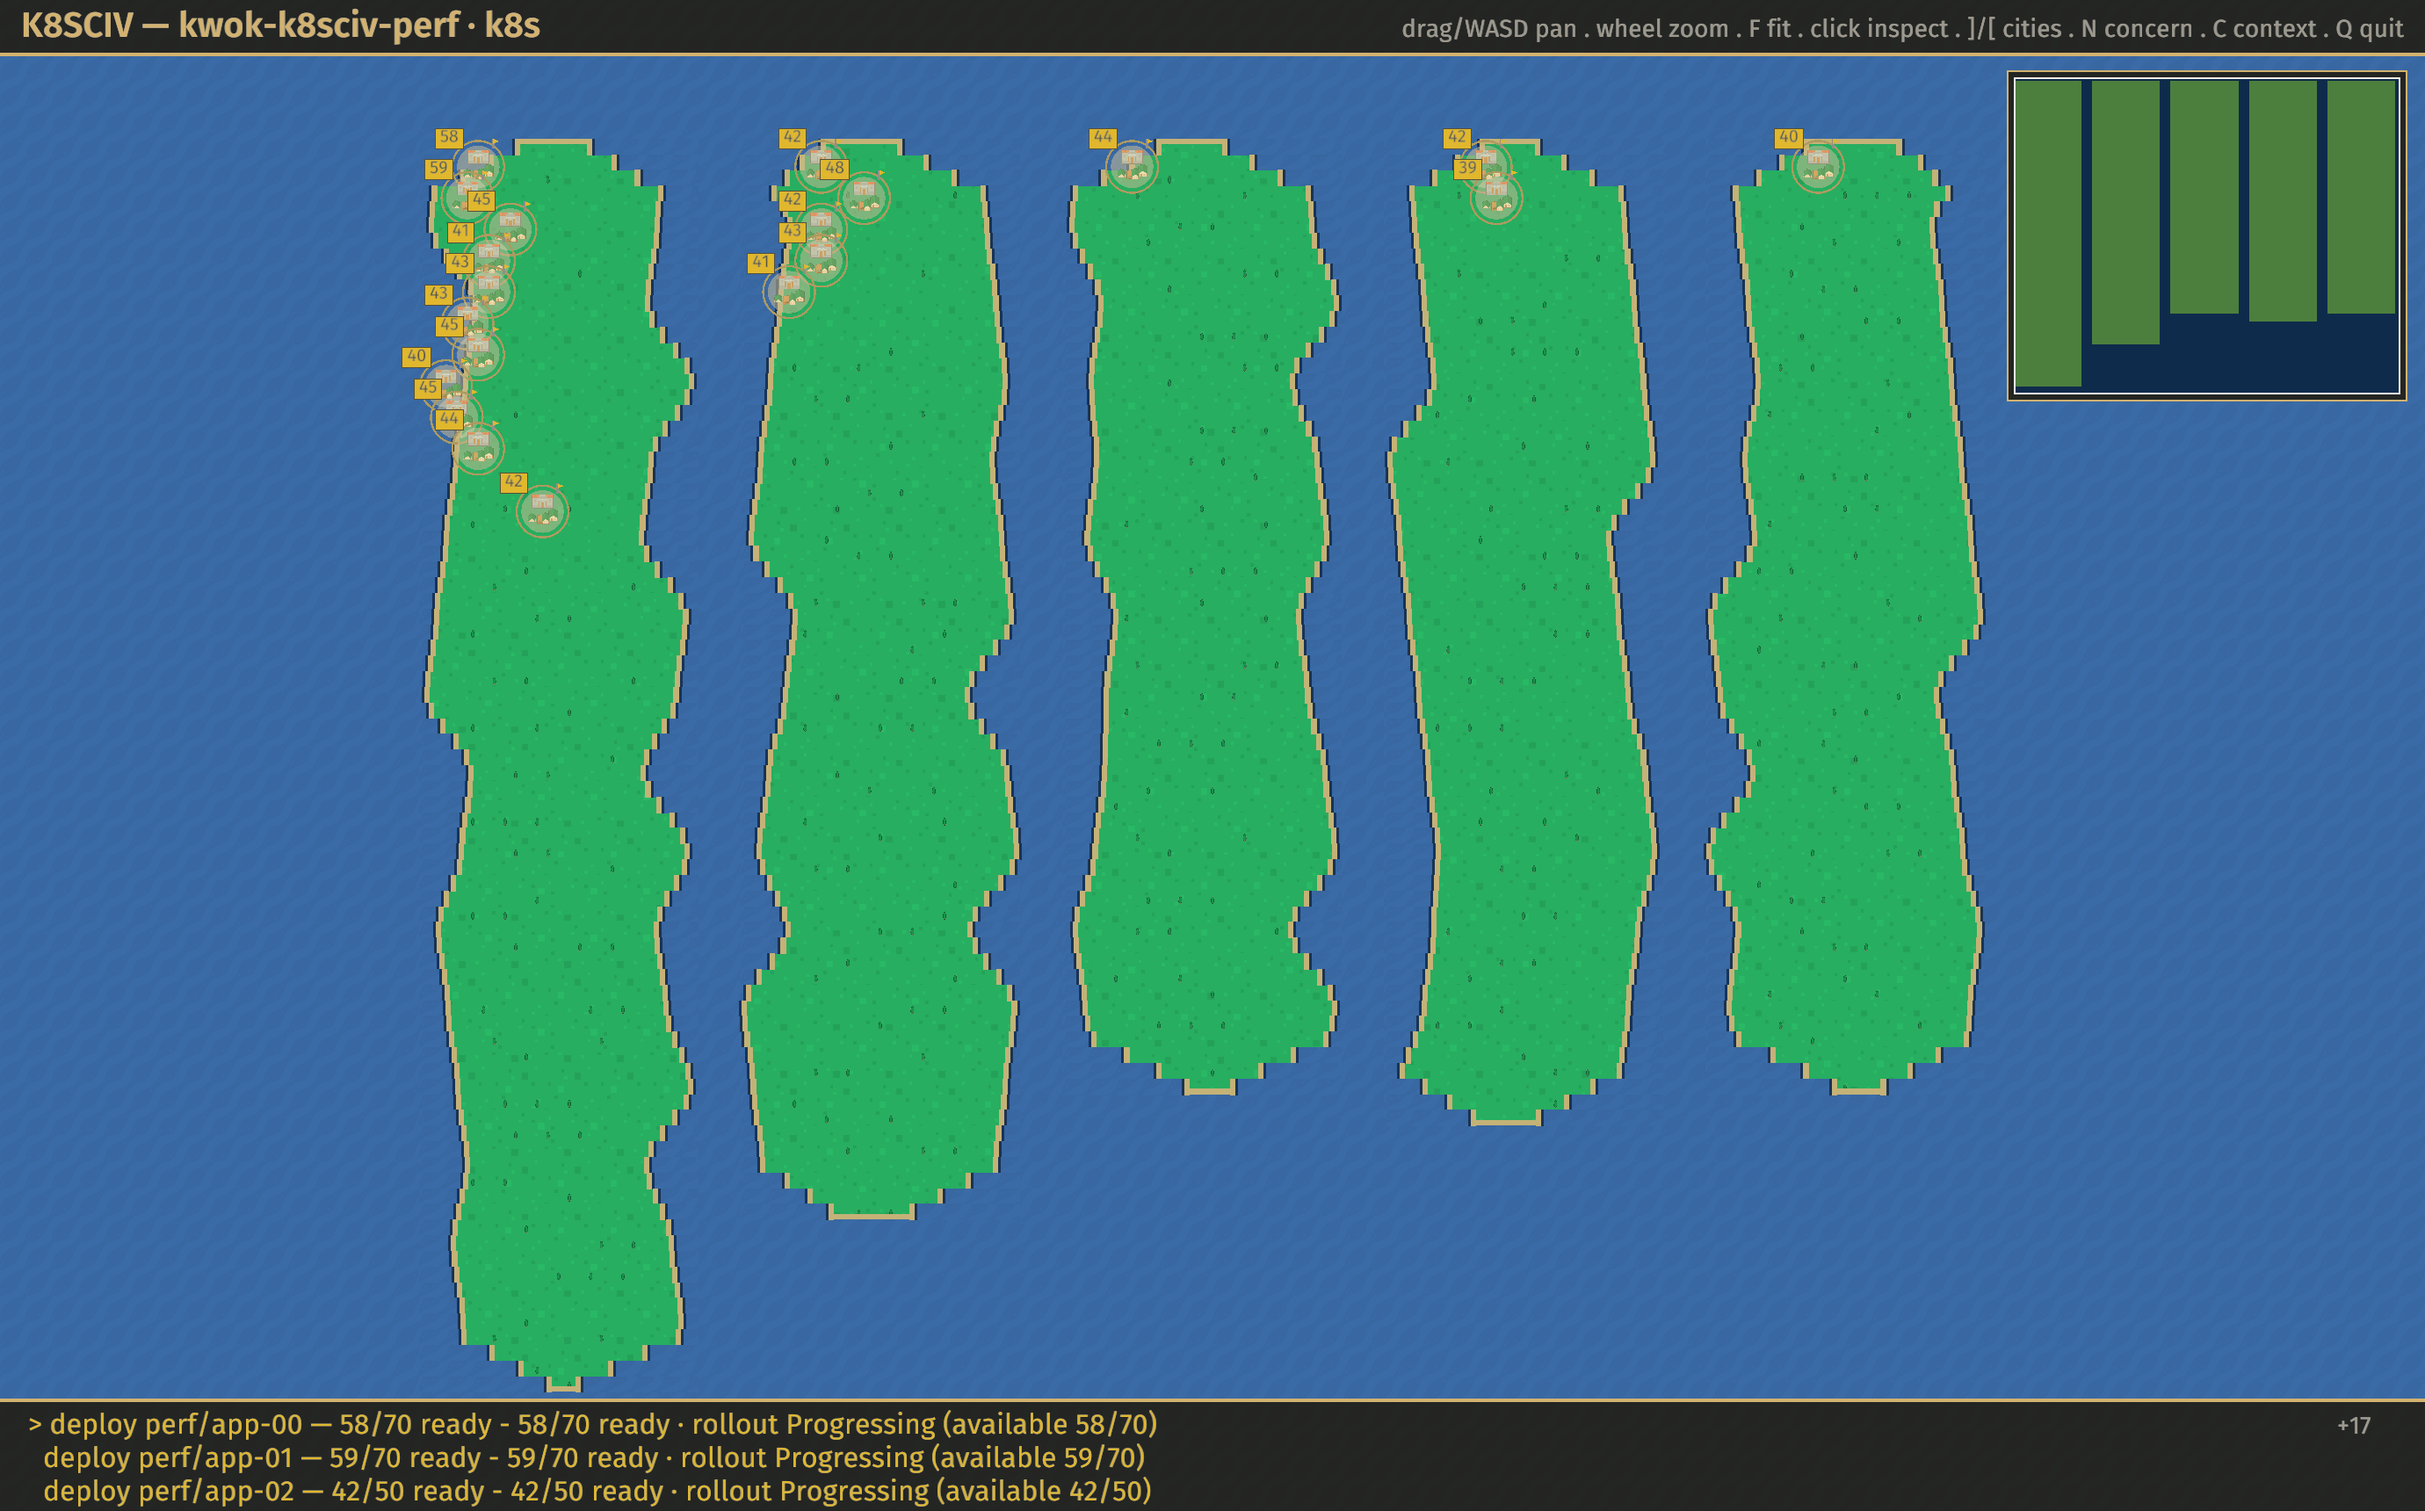
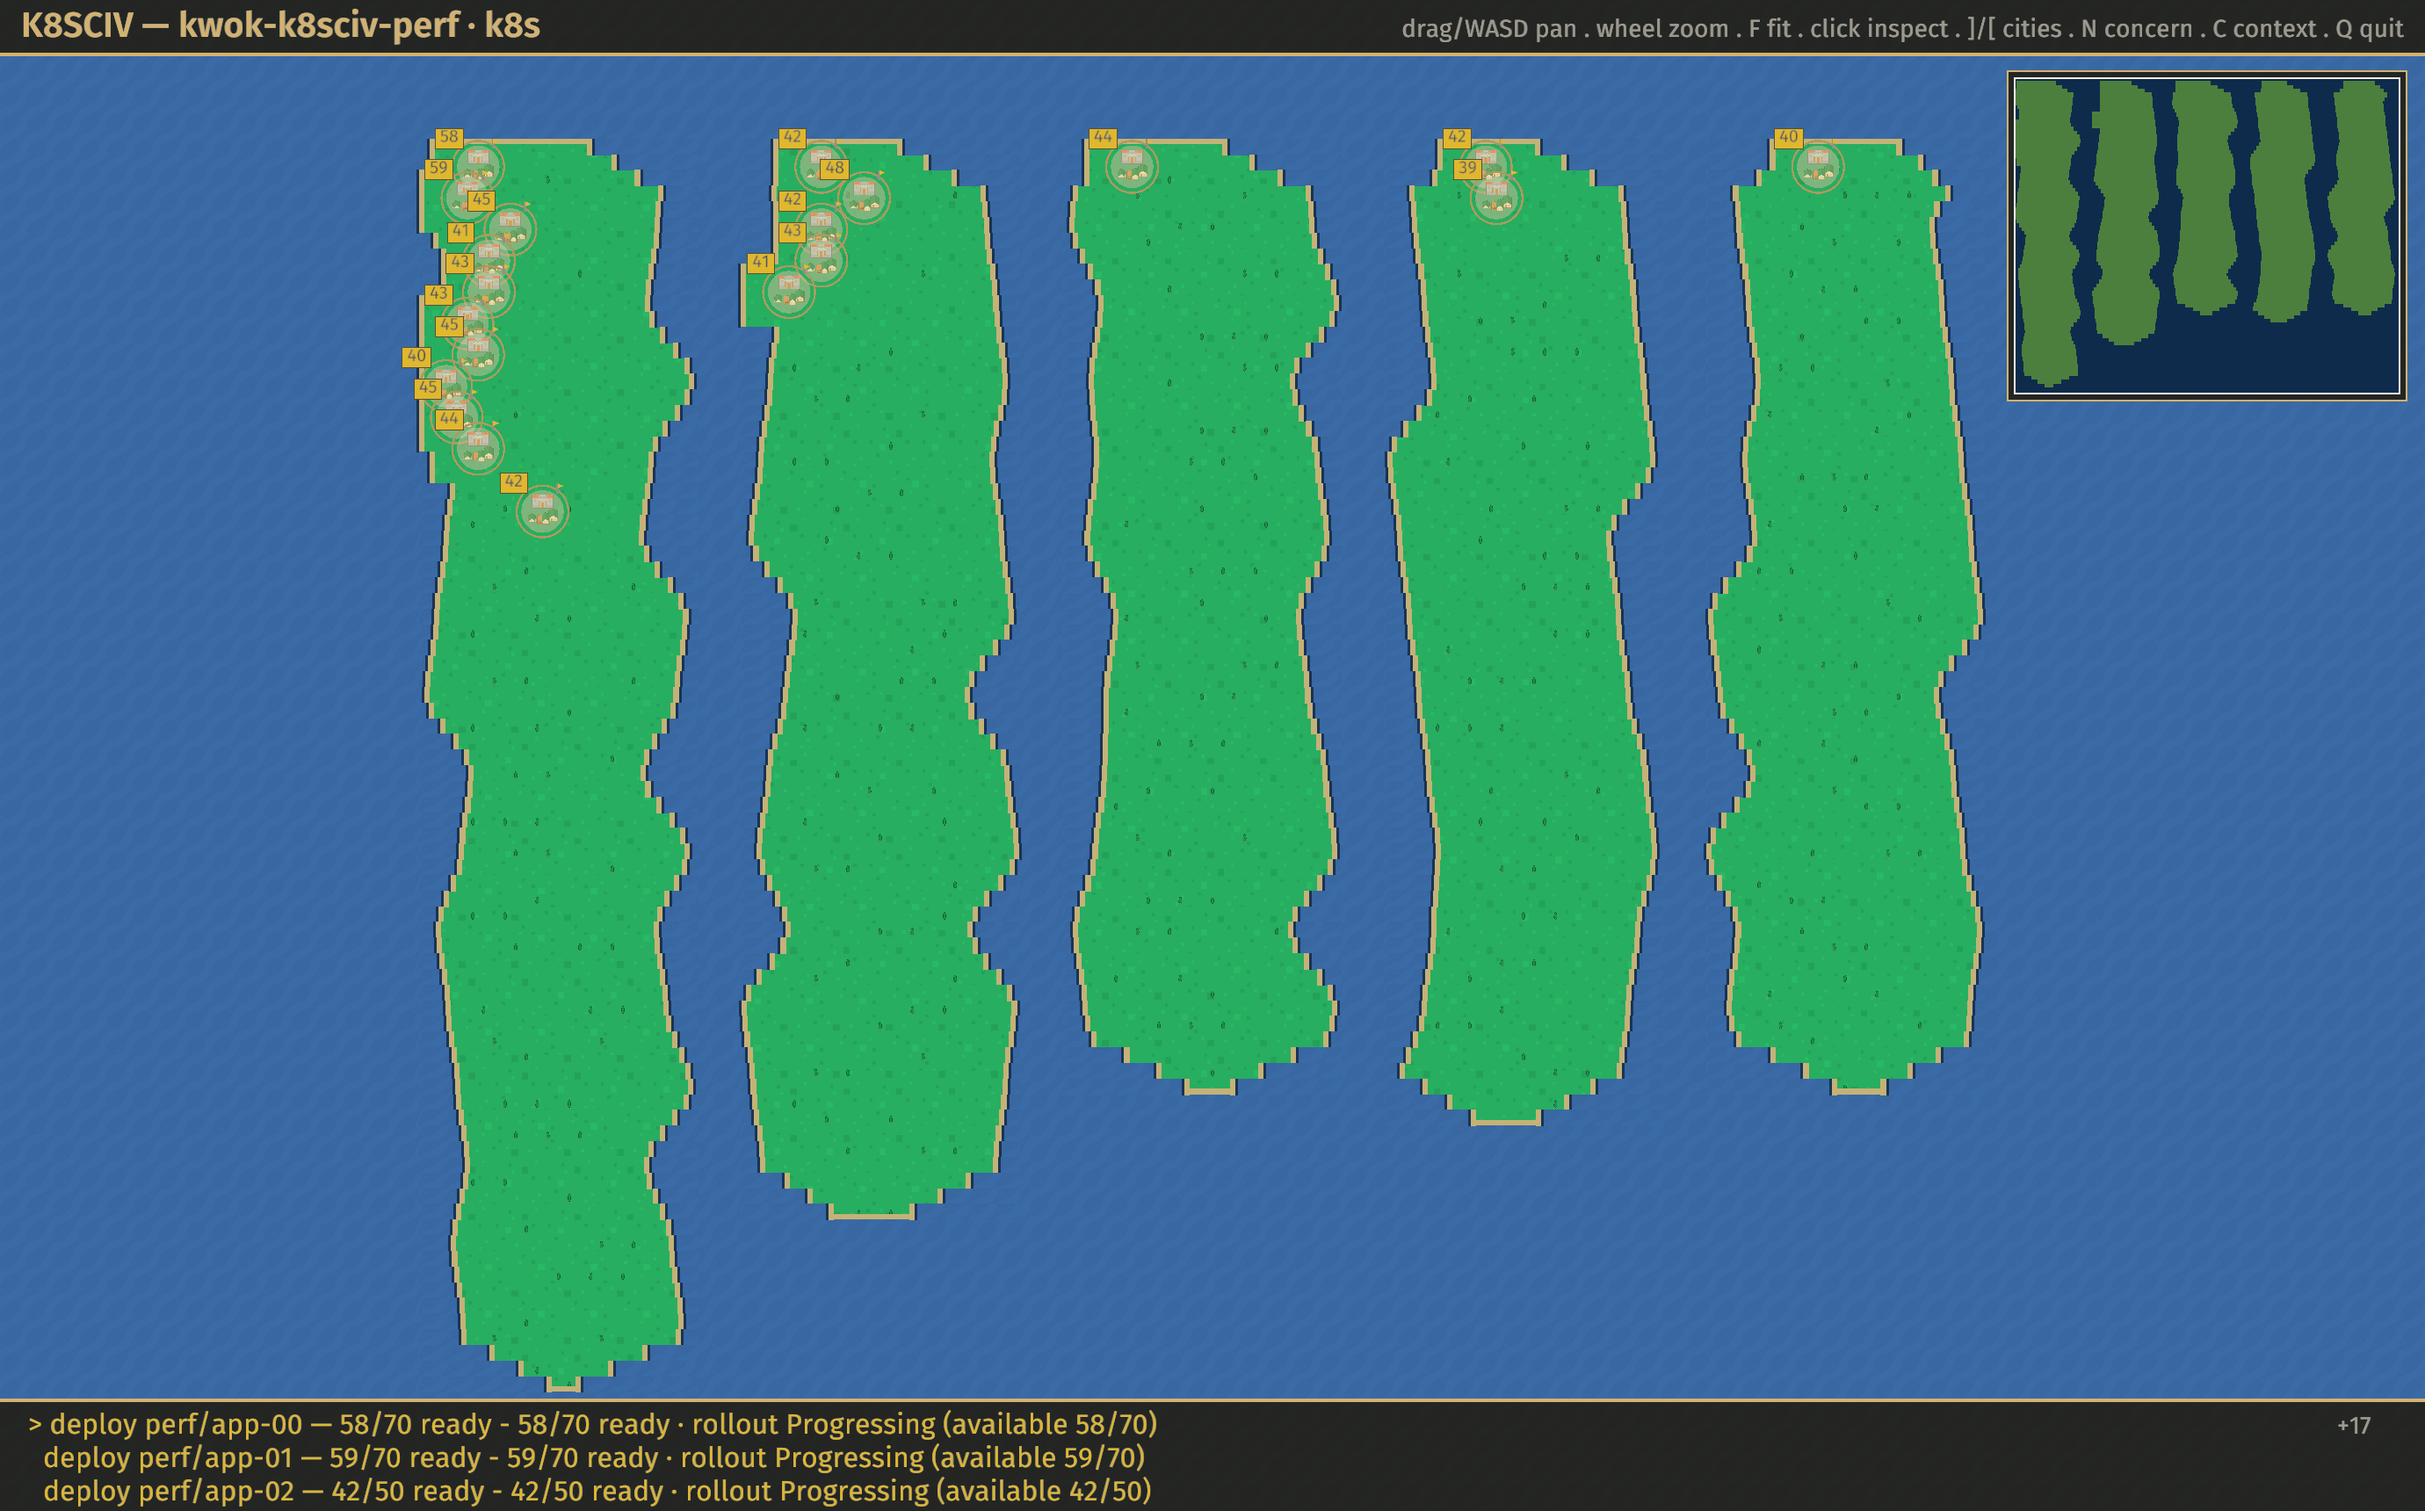
feat(gui): coastline-aware minimap + keep settlements on land
Two refinements to the irregular coastlines:

- The minimap now carves the same per-row Coast noise (new
  Coast::land_span) instead of drawing province rectangles, so the chart
  silhouette matches the landmasses you explore.

- The shore can no longer swallow a city: Coast precomputes a per-row
  inset ceiling (max_l/max_r) from every city's column with a CITY_MARGIN
  keep-out covering the building and its population chip, so the coast
  bulges outward wherever a settlement sits — resources are always on dry
  land, increasing the mass locally rather than carving them adrift.

Verified by inspected screenshots on kind and the 100-node kwok board:
minimap shows carved silhouettes; west-edge city clusters sit on land
with the shore bulged around them (docs/gui-world.png). clippy clean,
44 tests pass.

diff --git a/crates/k8sciv-gui/src/draw.rs b/crates/k8sciv-gui/src/draw.rs
@@ -202,22 +202,60 @@ fn vnoise(seed: u64, t: f32, period: f32) -> f32 {
 }
 
 /// Per-continent coastline: how far the land insets from its footprint on
-/// each side, for any absolute world row.
+/// each side, for any absolute world row. The noise wobble is clamped per
+/// row so the shore never carves across a city — wherever a resource sits,
+/// the land bulges out to keep it firmly inland.
 pub struct Coast {
     seed_l: u64,
     seed_r: u64,
     y0: i32,
     h: i32,
+    /// Per-row ceiling on the west / east inset (cells), so cities stay on
+    /// land. Large where no city constrains the row.
+    max_l: Vec<f32>,
+    max_r: Vec<f32>,
 }
+
+/// Cells of clearance kept seaward of a settlement (its building footprint
+/// plus the population chip riding off the upper-left).
+const CITY_MARGIN: i32 = 4;
 
 impl Coast {
     pub fn new(cont: &Continent) -> Self {
-        let h: u16 = cont.provinces.iter().map(|p| p.h).sum();
+        let h = cont
+            .provinces
+            .iter()
+            .map(|p| p.h as i32)
+            .sum::<i32>()
+            .max(1);
+        let w = cont.w as i32;
+        let big = MAX_INSET + 100.0;
+        let mut max_l = vec![big; h as usize];
+        let mut max_r = vec![big; h as usize];
+        // Pull the shore back around every city (and the rows its sprite +
+        // name plate touch) so it can never end up in the water.
+        for p in &cont.provinces {
+            for c in &p.cities {
+                let lx = c.x as i32 - cont.x as i32;
+                let ly = c.y as i32 - cont.y as i32;
+                let l_cap = (lx - CITY_MARGIN).max(0) as f32;
+                let r_cap = (w - 1 - (lx + CITY_MARGIN)).max(0) as f32;
+                for ry in (ly - 1)..=(ly + 2) {
+                    if (0..h).contains(&ry) {
+                        let i = ry as usize;
+                        max_l[i] = max_l[i].min(l_cap);
+                        max_r[i] = max_r[i].min(r_cap);
+                    }
+                }
+            }
+        }
         Coast {
             seed_l: fnv1a64(&format!("{}~west", cont.zone)),
             seed_r: fnv1a64(&format!("{}~east", cont.zone)),
             y0: cont.y as i32,
-            h: (h as i32).max(1),
+            h,
+            max_l,
+            max_r,
         }
     }
 
@@ -233,7 +271,16 @@ impl Coast {
         let taper = (cap - end.min(cap)).max(0) as f32 * 2.4;
         l += taper;
         r += taper;
+        // Keep every settlement on dry land.
+        l = l.min(self.max_l[ry as usize]).max(0.0);
+        r = r.min(self.max_r[ry as usize]).max(0.0);
         (l, r)
+    }
+
+    /// Land span (start, width) in cells for `abs_row`, for the minimap.
+    pub fn land_span(&self, abs_row: i32, w: f32) -> (f32, f32) {
+        let (li, ri) = self.insets(abs_row);
+        (li, (w - li - ri).max(0.0))
     }
 }
 
@@ -798,14 +845,23 @@ pub fn draw_minimap(worlds: &[SceneWorld], cam: &Camera, ml: &MinimapLayout) {
     for sw in worlds {
         let ox = sw.off as f32 * ml.scale_x;
         for cont in &sw.world.continents {
+            // Carve the same noise coastline as the main map, row by row,
+            // so the chart silhouette matches the land you're exploring.
+            let coast = Coast::new(cont);
             for p in &cont.provinces {
-                draw_rectangle(
-                    ml.inner.x + ox + p.x as f32 * ml.scale_x,
-                    ml.inner.y + p.y as f32 * ml.scale_y,
-                    p.w as f32 * ml.scale_x,
-                    p.h as f32 * ml.scale_y,
-                    terrain(p.tile.health),
-                );
+                for row in p.y..p.y + p.h {
+                    let (li, lw) = coast.land_span(row as i32, p.w as f32);
+                    if lw <= 0.0 {
+                        continue;
+                    }
+                    draw_rectangle(
+                        ml.inner.x + ox + (p.x as f32 + li) * ml.scale_x,
+                        ml.inner.y + row as f32 * ml.scale_y,
+                        lw * ml.scale_x,
+                        ml.scale_y + 0.6,
+                        terrain(p.tile.health),
+                    );
+                }
             }
         }
         for isl in &sw.world.islands {

diff --git a/CLAUDE.md b/CLAUDE.md
@@ -206,7 +206,12 @@ what makes the interesting logic unit-testable without a cluster.
   carved: shore margins are overdrawn with the sea texture, a sand beach
   + dark waterline drawn at the boundary. Displacement only *insets*, so
   rectangular hit-testing still lands on real provinces. Single-node
-  zones just wobble; tall zones (kwok) read as genuine landmasses.
+  zones just wobble; tall zones (kwok) read as genuine landmasses. The
+  per-row inset is capped around every city (`Coast::max_l/max_r`, a
+  `CITY_MARGIN` keep-out covering the building + pop chip) so the shore
+  bulges out to keep settlements on dry land rather than carving them
+  into the sea. The minimap carves the same `Coast` row by row
+  (`land_span`) so its silhouette matches the explored coastline.
 - **GUI context switching** (2026-06-12): `c` opens a modal context
   picker (j/k/click, current dotted); selecting calls `Net::request_switch`,
   a `Mutex<Option<String>>` the net thread drains each tick — it connects
